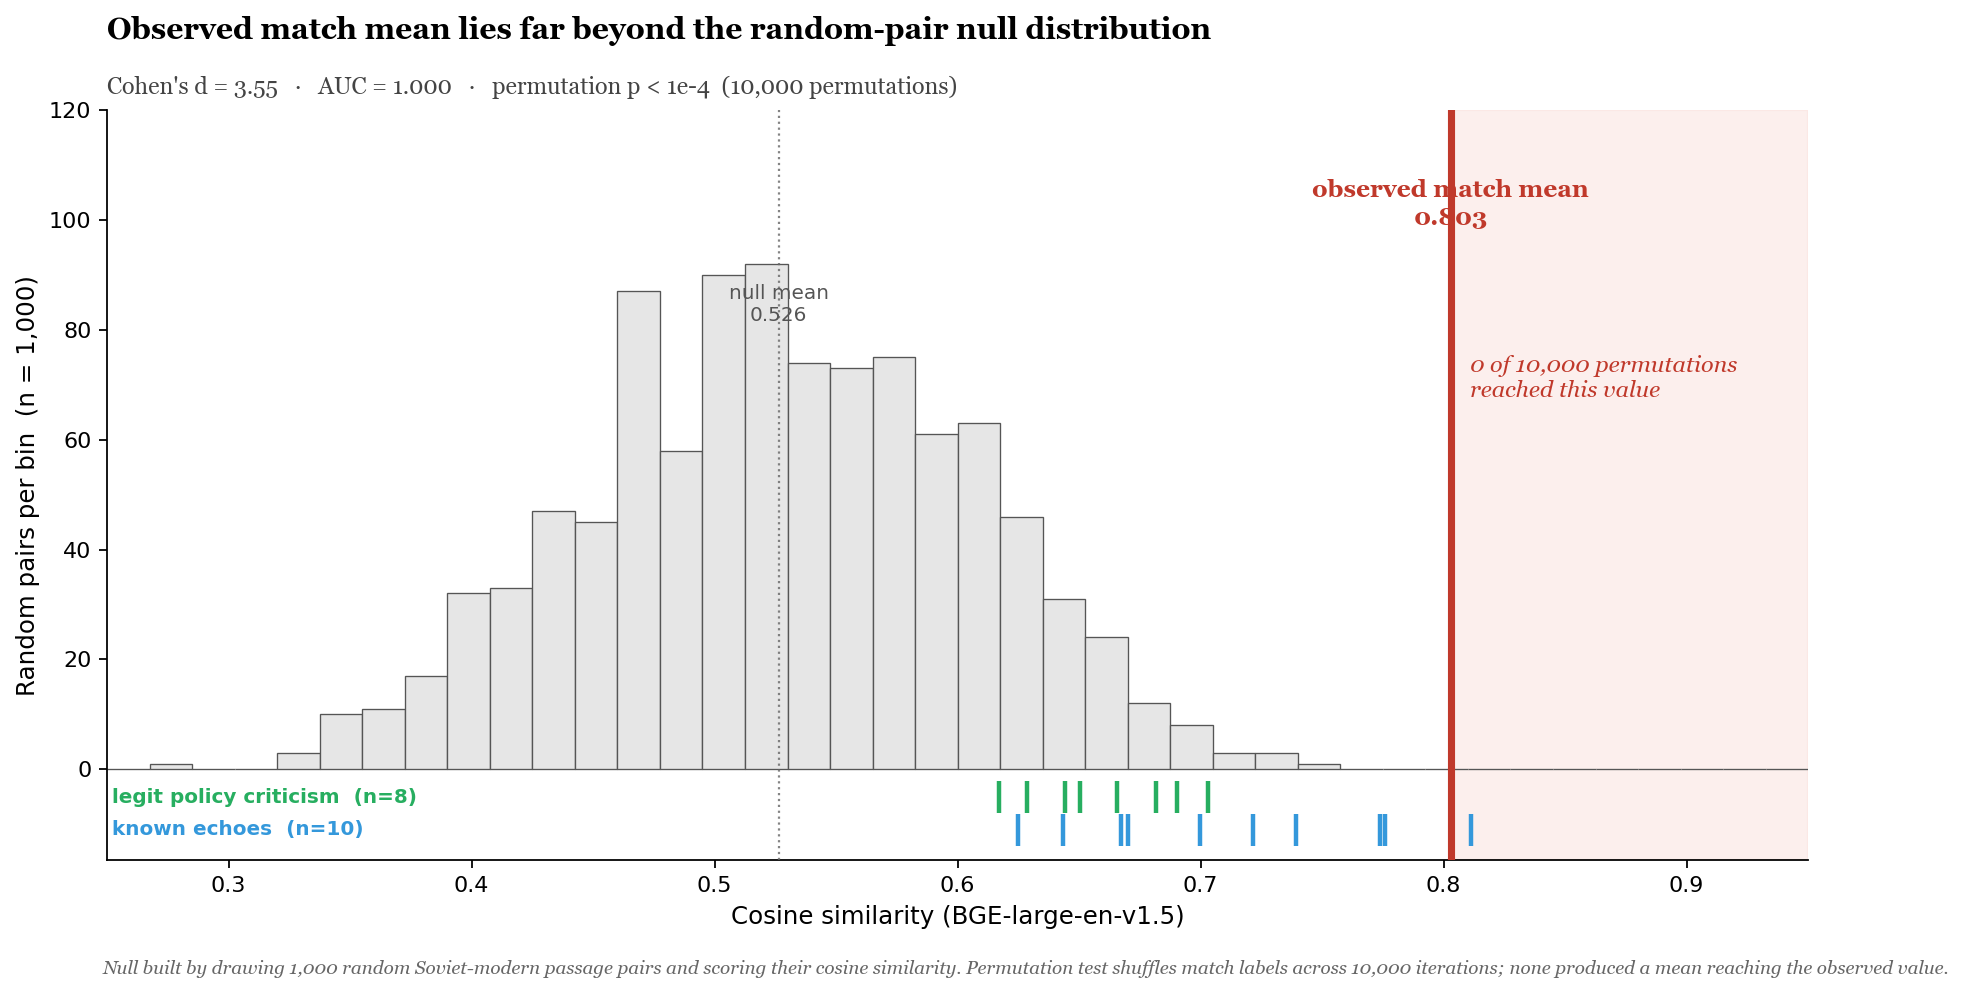
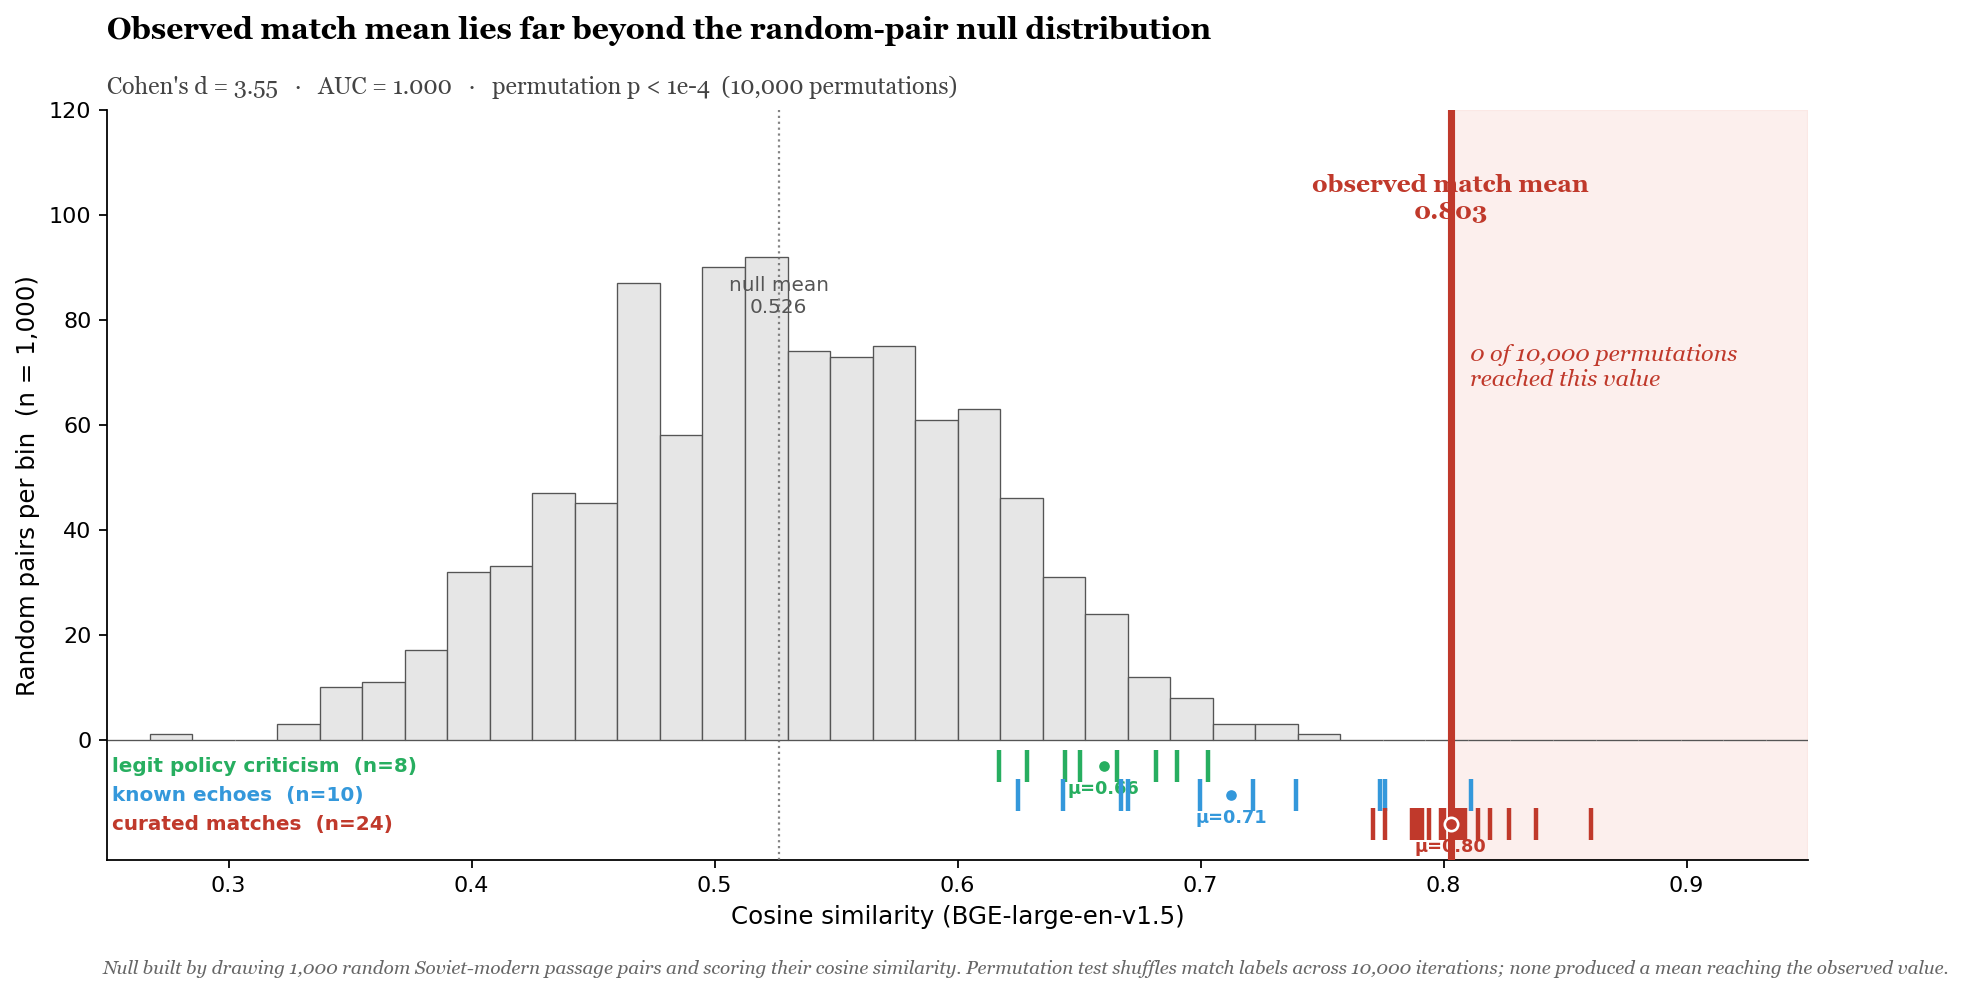
Add curated-match ticks + per-group mean markers to permutation-null chart
Previously the red vertical line (mean of the 24 curated matches, 0.80)
floated without any per-match ticks, while the known-echo (blue) and
legit-criticism (green) reference groups had ticks but no mean markers.
This made readers assume the red line summarized the blue ticks.

Now every group shows both: individual tick strip + labeled mean dot.
Visual hierarchy is explicit — random 0.53, legit 0.66, echoes 0.71,
curated matches 0.80 — and the red line's position above the red ticks
is no longer ambiguous.

diff --git a/viz_examples/permutation_null.py b/viz_examples/permutation_null.py
@@ -73,19 +73,31 @@ def main():
         fontweight="bold", fontname="Georgia",
     )
 
-    # Tick-mark strips for echoes (blue) and legit criticism (green) just above 0.
+    # Tick-mark strips for each group. Every reference group gets both
+    # individual dots (ticks) and a small mean-marker (solid dot + label).
     tick_y_legit = -y_hist_max * 0.055
-    tick_y_echo = -y_hist_max * 0.12
+    tick_y_echo  = -y_hist_max * 0.115
+    tick_y_match = -y_hist_max * 0.175
     ax.plot(legit_scores, np.full_like(legit_scores, tick_y_legit),
             "|", color="#27ae60", markersize=14, markeredgewidth=2.0, zorder=4)
     ax.plot(echo_scores, np.full_like(echo_scores, tick_y_echo),
             "|", color="#3498db", markersize=14, markeredgewidth=2.0, zorder=4)
+    ax.plot(match_scores, np.full_like(match_scores, tick_y_match),
+            "|", color="#c0392b", markersize=14, markeredgewidth=2.0, zorder=4)
 
-    # Labels for the tick strips.
-    ax.text(0.252, tick_y_legit, "legit policy criticism  (n=8)",
-            fontsize=9, color="#27ae60", va="center", ha="left", fontweight="bold")
-    ax.text(0.252, tick_y_echo, "known echoes  (n=10)",
-            fontsize=9, color="#3498db", va="center", ha="left", fontweight="bold")
+    # Mean markers + numeric labels for each reference group.
+    for (scores, y, color, label) in [
+        (legit_scores, tick_y_legit, "#27ae60", "legit policy criticism"),
+        (echo_scores,  tick_y_echo,  "#3498db", "known echoes"),
+        (match_scores, tick_y_match, "#c0392b", "curated matches"),
+    ]:
+        m = float(np.mean(scores))
+        ax.plot(m, y, "o", color=color, markersize=6, zorder=6,
+                markeredgecolor="white", markeredgewidth=1.2)
+        ax.text(m, y - y_hist_max * 0.028, f"μ={m:.2f}",
+                fontsize=8, color=color, ha="center", va="top", fontweight="bold")
+        ax.text(0.252, y, f"{label}  (n={len(scores)})",
+                fontsize=9, color=color, va="center", ha="left", fontweight="bold")
 
     # Annotate null distribution mean with a faint dotted vertical.
     ax.axvline(null_mean, color="#666", linewidth=1.0, linestyle=":", alpha=0.8, zorder=3)
@@ -94,7 +106,7 @@ def main():
 
     # Axes cosmetics.
     ax.set_xlim(0.25, 0.95)
-    ax.set_ylim(-y_hist_max * 0.18, y_hist_max * 1.22)
+    ax.set_ylim(-y_hist_max * 0.25, y_hist_max * 1.22)
     ax.set_xlabel("Cosine similarity (BGE-large-en-v1.5)", fontsize=11)
     ax.set_ylabel("Random pairs per bin  (n = 1,000)", fontsize=11)
 
